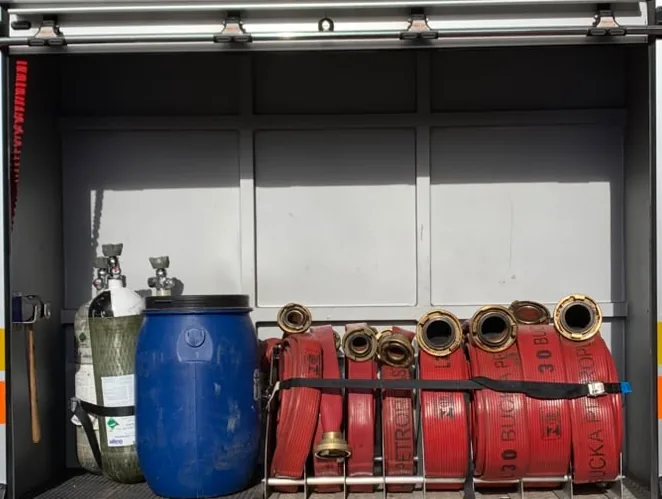
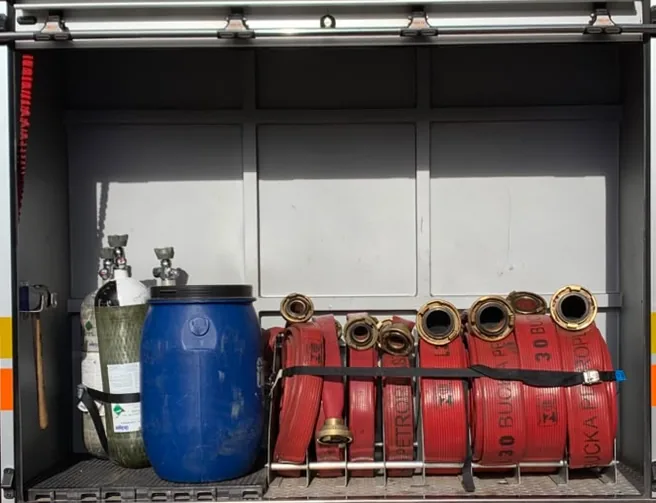
Fotos de seção: recorte e correção de perspectiva pelo vão da cortina (ABT 660 c1–c8, AR 1629 acort); FOTO_DIM atualizado

diff --git a/index.html b/index.html
@@ -1464,7 +1464,7 @@ const FOTOS_SEC={
 const FECH=new Set(['c1','c2','c3','c4','c5','c6a','c7','c8','acort']); // fotos que têm versão fechada (<chave>f.webp) p/ a cortina animada
 const dirSec=sid=>'img/secoes/'+(sid.startsWith('ar_')?'ar797':'abt660')+'/';
 // largura×altura de cada foto recortada: a moldura já nasce no formato certo, sem pulo ao carregar. Trocou a foto → atualizar aqui.
-const FOTO_DIM={c1:[662,960],c2:[641,986],c3:[662,499],c4:[540,998],c5:[597,1152],c6a:[698,550],c6b:[648,524],c7:[597,986],c8:[676,1063],cb:[655,1178],ms:[662,1191],ps1:[1280,461],ps2:[1280,447],ps3:[1280,389],acort:[662,875],asal:[700,941],ac1:[960,328],ac2:[960,499],ac3:[700,366],ac4:[700,360],ag1:[600,1066],ag2:[600,1066],ape:[960,540]};
+const FOTO_DIM={c1:[568,860],c2:[635,964],c3:[656,503],c4:[507,1031],c5:[521,1076],c6a:[684,527],c6b:[648,524],c7:[626,945],c8:[607,944],cb:[655,1178],ms:[662,1191],ps1:[1280,461],ps2:[1280,447],ps3:[1280,389],acort:[720,965],asal:[700,941],ac1:[960,328],ac2:[960,499],ac3:[700,366],ac4:[700,360],ag1:[600,1066],ag2:[600,1066],ape:[960,540]};
 const fotosDe=sec=>FOTOS_SEC[sec.id]||[];
 // URLs de img/ a pré-cachear p/ uso offline: fotos das seções (+ versão fechada) e laterais do mapa. Pura: testada em Node.
 function urlsFotosOffline(secs,mapas,fotosSec,fech,dir){
